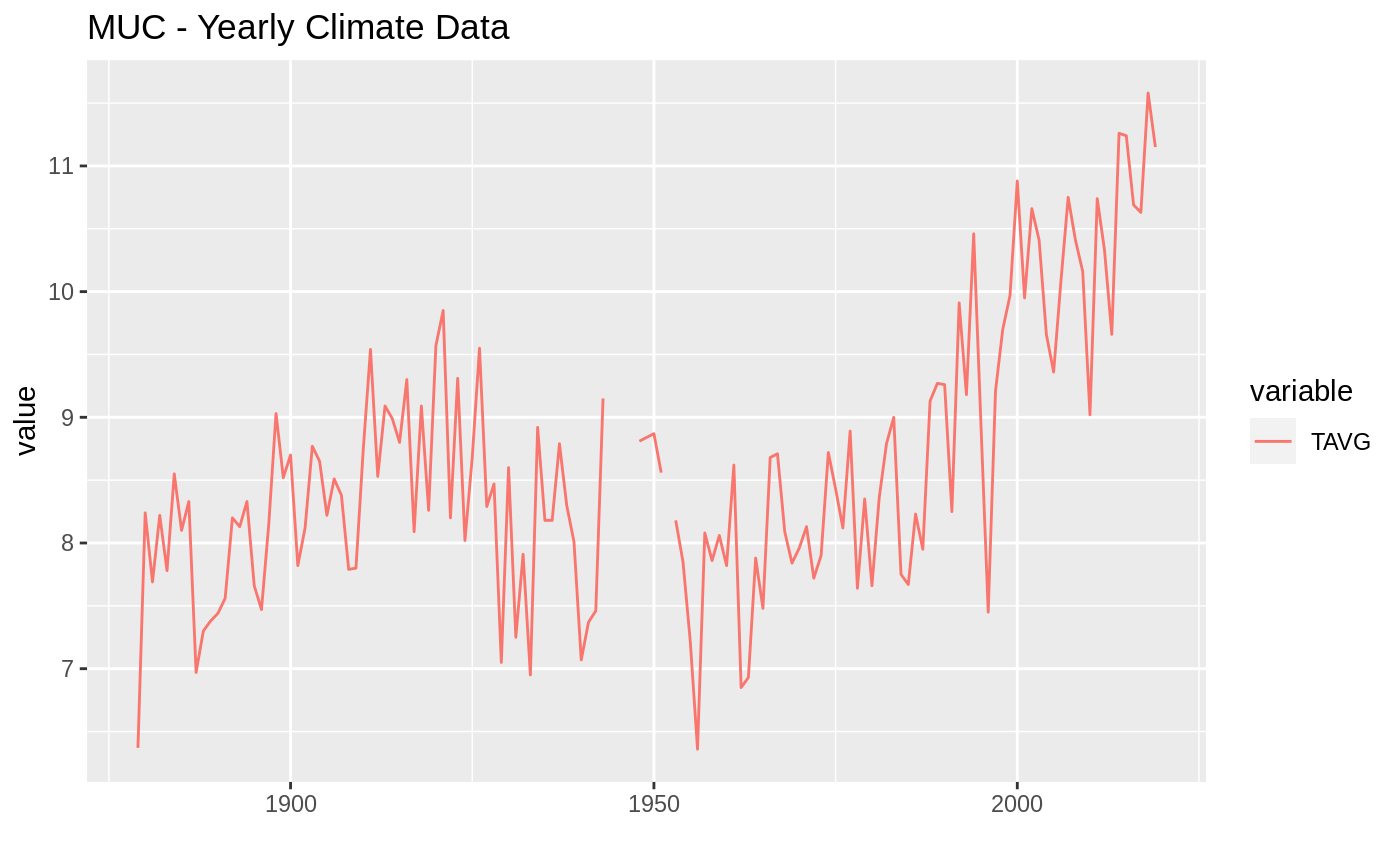
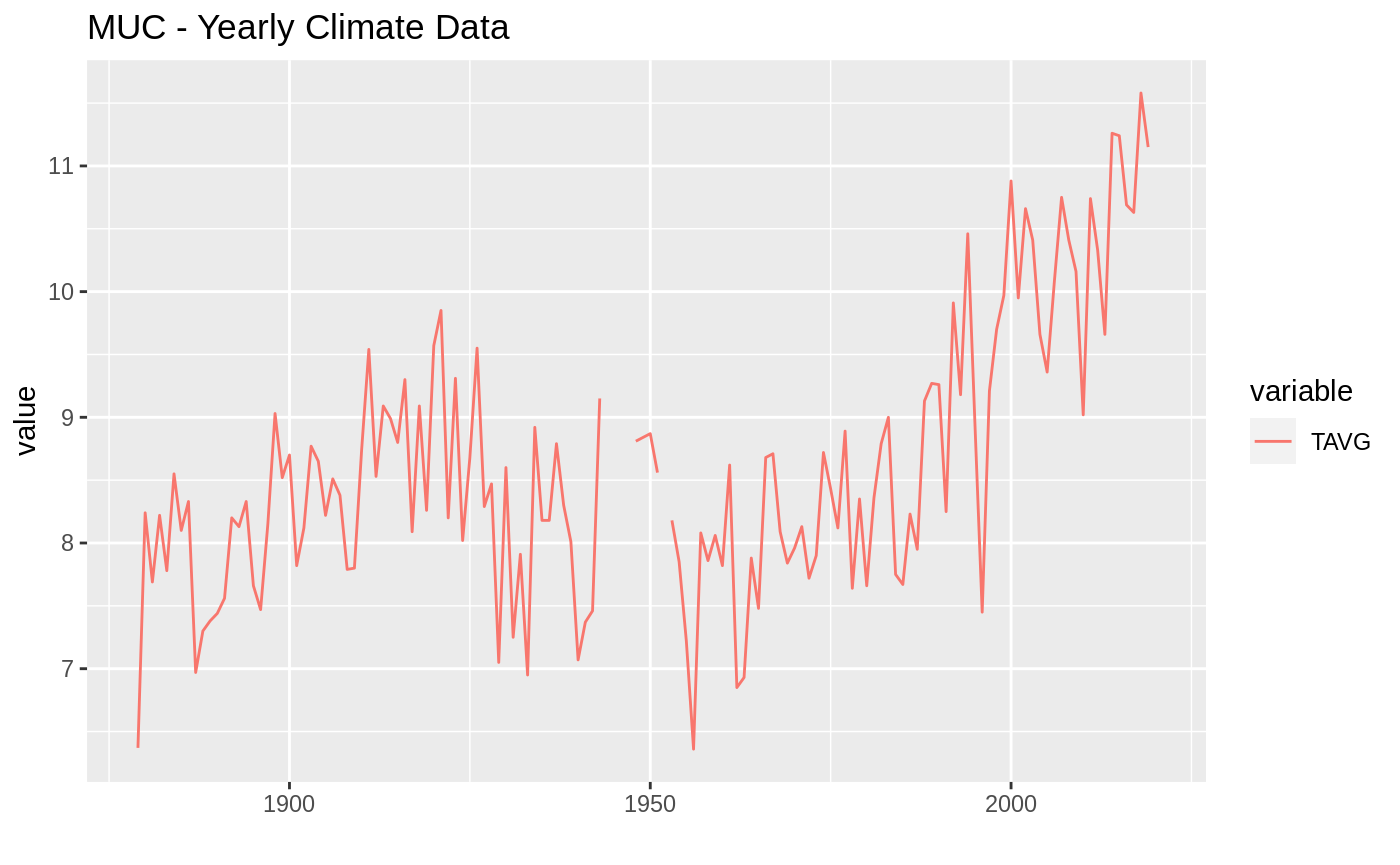
Deploy from Github Actions build 228085294 [ci skip]
Build URL: https://github.com/mlr-org/mlr3forecasting/actions/runs/228085294
Commit: c7d8ab7c8169bb3cbd9ed402abfbe76e18c987e7

diff --git a/articles/vignettes.html b/articles/vignettes.html
@@ -254,32 +254,32 @@
 <pre><code>## [[1]]
 ## &lt;PredictionForecast&gt; for 5 observations:
 ##  row_id truth.TAVG truth.TMIN truth.TMAX response.TAVG response.TMIN
-##      28      11.99       8.28      15.70      11.14448      7.211087
-##      29      12.80       9.32      16.28      11.06162      7.145681
-##      30      12.19       8.49      15.89      11.02056      7.090468
-##      31      12.31       8.40      16.22      11.02657      7.101719
-##      32      11.35       7.85      14.85      10.99440      7.080405
+##      14      10.09       6.24      13.94      11.98072      8.218928
+##      15      11.24       7.55      14.94      11.02227      7.011148
+##      16      10.31       6.37      14.25      11.24611      7.325380
+##      17      10.70       6.58      14.82      11.19579      7.265850
+##      18      10.52       6.43      14.61      11.05602      7.096889
 ##  response.TMAX
-##       15.07246
-##       14.97793
-##       14.94836
-##       14.95026
-##       14.90721
+##       15.73622
+##       15.03634
+##       15.16343
+##       15.12523
+##       15.01300
 ## 
 ## [[2]]
 ## &lt;PredictionForecast&gt; for 5 observations:
 ##  row_id truth.TAVG truth.TMIN truth.TMAX response.TAVG response.TMIN
-##      31      12.31       8.40      16.22      11.70070      7.889993
-##      32      11.35       7.85      14.85      11.51987      7.705001
-##      33      11.65       8.10      15.19      11.51270      7.721152
-##      34      11.67       8.12      15.23      11.62224      7.877671
-##      35      10.48       6.75      14.22      11.46029      7.630023
+##      16      10.31       6.37      14.25      11.23162      7.396733
+##      17      10.70       6.58      14.82      11.00973      7.099333
+##      18      10.52       6.43      14.61      10.98880      7.066307
+##      19       9.69       5.70      13.67      11.04921      7.113089
+##      20      11.55       7.76      15.34      11.10423      7.151107
 ##  response.TMAX
-##       15.51076
-##       15.33446
-##       15.30415
-##       15.36730
-##       15.28941</code></pre>
+##       15.06068
+##       14.92045
+##       14.90994
+##       14.98654
+##       15.05885</code></pre>
 </div>
 <div id="plotting" class="section level2">
 <h2 class="hasAnchor">
@@ -292,8 +292,9 @@
                             <span class="kw">target</span> <span class="kw">=</span> <span class="st">"TAVG"</span>)
 
 <span class="fu"><a href="../reference/autoplot.html">autoplot</a></span>(<span class="no">task</span>) + <span class="fu"><a href="https://ggplot2.tidyverse.org/reference/labs.html">ggtitle</a></span>(<span class="st">"MUC - Yearly Climate Data"</span>)</pre></body></html></div>
+<pre><code>## Warning: Removed 1 row(s) containing missing values (geom_path).</code></pre>
 <p><img src="vignettes_files/figure-html/plot-2.png" width="700"></p>
-<div class="sourceCode" id="cb21"><html><body><pre class="r"><span class="no">learner</span> <span class="kw">=</span> <span class="no">LearnerRegrForecastAutoArima</span>$<span class="fu">new</span>()
+<div class="sourceCode" id="cb22"><html><body><pre class="r"><span class="no">learner</span> <span class="kw">=</span> <span class="no">LearnerRegrForecastAutoArima</span>$<span class="fu">new</span>()
 <span class="no">learner</span>$<span class="fu">train</span>(<span class="no">task</span>, <span class="kw">row_ids</span> <span class="kw">=</span> <span class="fl">1</span>:<span class="fl">85</span>)
 <span class="no">learner</span>$<span class="no">model</span></pre></body></html></div>
 <pre><code>## Series: task$data(rows = task$row_ids, cols = task$target_names) 
@@ -306,12 +307,12 @@
 ## 
 ## sigma^2 estimated as 0.4615:  log likelihood=-80.94
 ## AIC=171.88   AICc=172.64   BIC=184.1</code></pre>
-<div class="sourceCode" id="cb23"><html><body><pre class="r"><span class="no">p</span> <span class="kw">=</span> <span class="no">learner</span>$<span class="fu"><a href="https://rdrr.io/r/stats/predict.html">predict</a></span>(<span class="no">task</span>, <span class="kw">row_ids</span> <span class="kw">=</span> <span class="fl">86</span>:<span class="fl">136</span>)
+<div class="sourceCode" id="cb24"><html><body><pre class="r"><span class="no">p</span> <span class="kw">=</span> <span class="no">learner</span>$<span class="fu"><a href="https://rdrr.io/r/stats/predict.html">predict</a></span>(<span class="no">task</span>, <span class="kw">row_ids</span> <span class="kw">=</span> <span class="fl">86</span>:<span class="fl">136</span>)
 <span class="no">p</span>$<span class="no">se</span></pre></body></html></div>
 <pre><code>##  [1] NA NA NA NA NA NA NA NA NA NA NA NA NA NA NA NA NA NA NA NA NA NA NA NA NA
 ## [26] NA NA NA NA NA NA NA NA NA NA NA NA NA NA NA NA NA NA NA NA NA NA NA NA NA
 ## [51] NA</code></pre>
-<div class="sourceCode" id="cb25"><html><body><pre class="r"><span class="fu"><a href="https://rdrr.io/pkg/forecast/man/checkresiduals.html">checkresiduals</a></span>(<span class="no">learner</span>$<span class="no">model</span>)</pre></body></html></div>
+<div class="sourceCode" id="cb26"><html><body><pre class="r"><span class="fu"><a href="https://rdrr.io/pkg/forecast/man/checkresiduals.html">checkresiduals</a></span>(<span class="no">learner</span>$<span class="no">model</span>)</pre></body></html></div>
 <p><img src="vignettes_files/figure-html/plot-3.png" width="700"></p>
 <pre><code>## 
 ##  Ljung-Box test
@@ -320,7 +321,7 @@
 ## Q* = 4.9348, df = 6, p-value = 0.5522
 ## 
 ## Model df: 4.   Total lags used: 10</code></pre>
-<div class="sourceCode" id="cb27"><html><body><pre class="r"><span class="fu"><a href="../reference/autoplot.html">autoplot</a></span>(<span class="fu"><a href="https://rdrr.io/pkg/forecast/man/forecast.html">forecast</a></span>(<span class="no">learner</span>$<span class="no">model</span>, <span class="kw">xreg</span> <span class="kw">=</span> <span class="fu"><a href="https://rdrr.io/r/base/matrix.html">as.matrix</a></span>(<span class="no">task</span>$<span class="fu"><a href="https://rdrr.io/r/utils/data.html">data</a></span>(<span class="kw">cols</span> <span class="kw">=</span> <span class="st">"PRCP"</span>, <span class="kw">rows</span> <span class="kw">=</span> <span class="fl">131</span>:<span class="fl">136</span> )))) + <span class="fu"><a href="https://ggplot2.tidyverse.org/reference/labs.html">ylab</a></span>(<span class="st">"value"</span>)</pre></body></html></div>
+<div class="sourceCode" id="cb28"><html><body><pre class="r"><span class="fu"><a href="../reference/autoplot.html">autoplot</a></span>(<span class="fu"><a href="https://rdrr.io/pkg/forecast/man/forecast.html">forecast</a></span>(<span class="no">learner</span>$<span class="no">model</span>, <span class="kw">xreg</span> <span class="kw">=</span> <span class="fu"><a href="https://rdrr.io/r/base/matrix.html">as.matrix</a></span>(<span class="no">task</span>$<span class="fu"><a href="https://rdrr.io/r/utils/data.html">data</a></span>(<span class="kw">cols</span> <span class="kw">=</span> <span class="st">"PRCP"</span>, <span class="kw">rows</span> <span class="kw">=</span> <span class="fl">131</span>:<span class="fl">136</span> )))) + <span class="fu"><a href="https://ggplot2.tidyverse.org/reference/labs.html">ylab</a></span>(<span class="st">"value"</span>)</pre></body></html></div>
 <p><img src="vignettes_files/figure-html/plot-4.png" width="700"></p>
 </div>
   </div>
